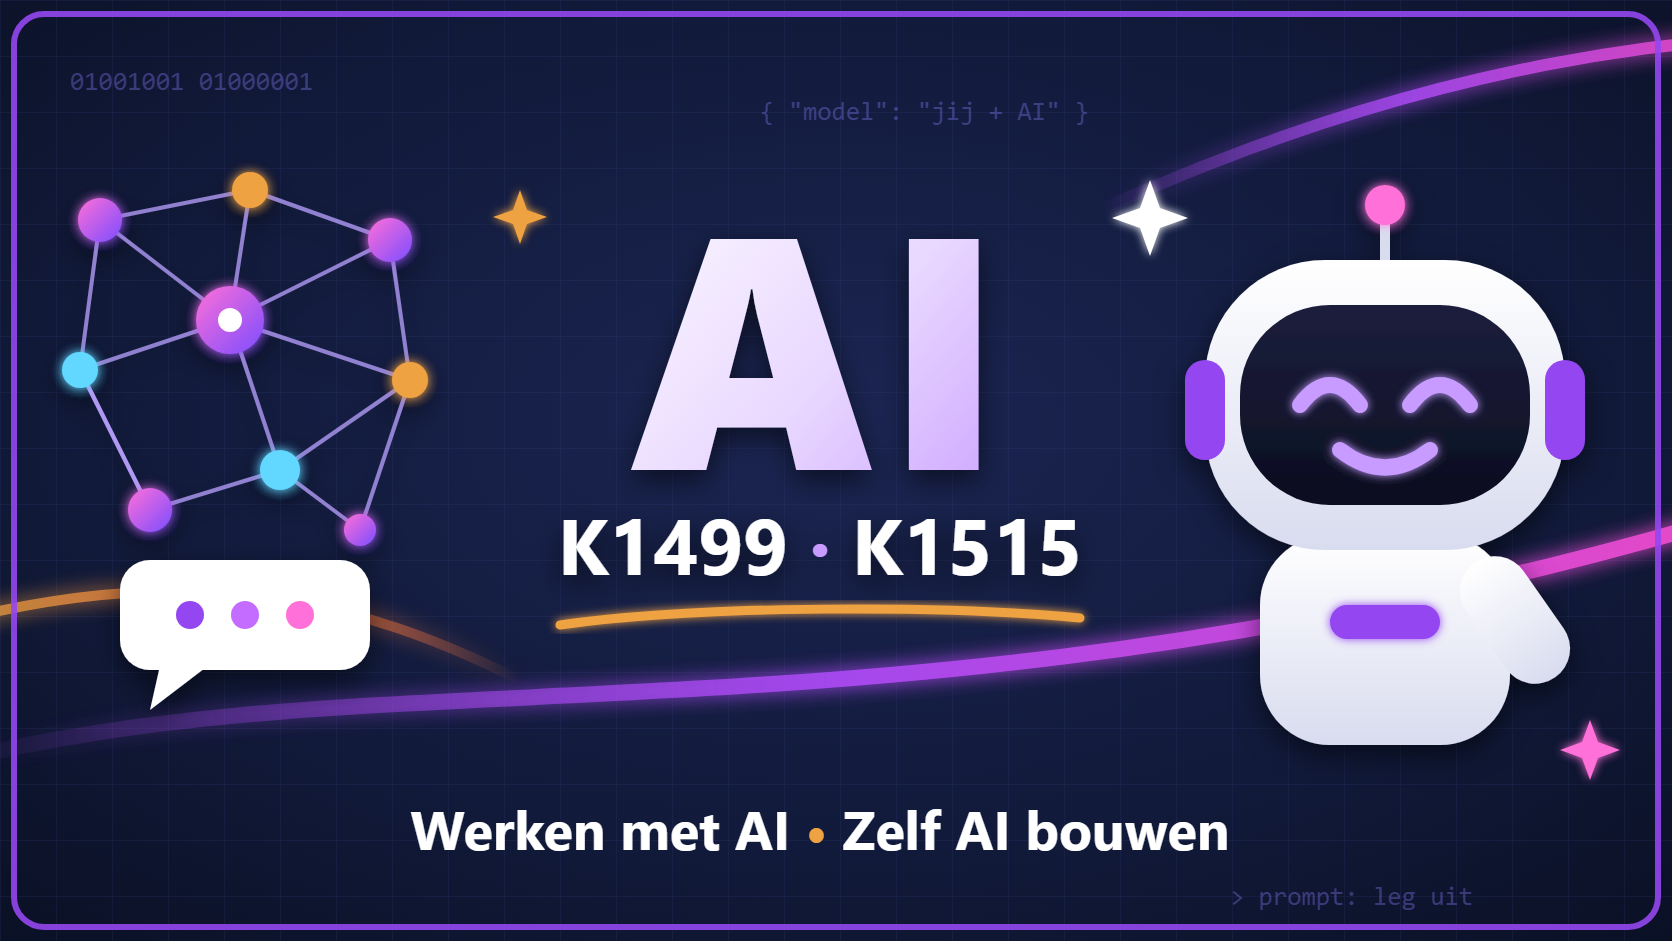
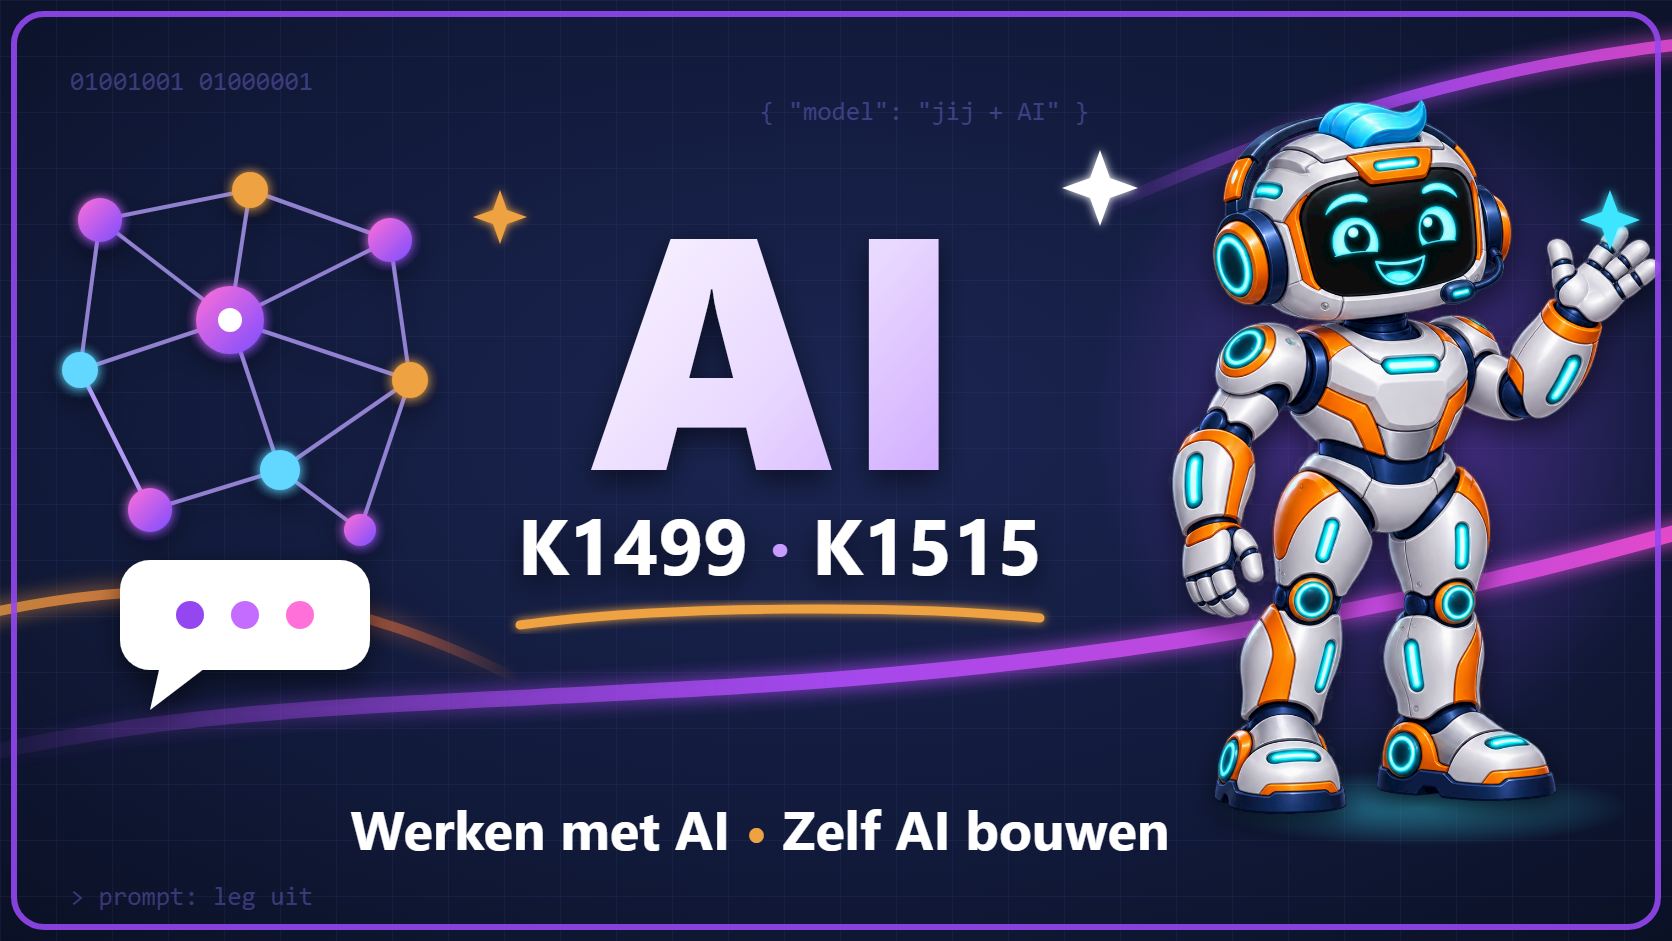
AI-kaart: robot AAdrie (servicedesk) in de afbeelding

diff --git a/index.html b/index.html
@@ -136,7 +136,7 @@
       </article>
       <article class="card ai" style="--colour: #9447f0">
         <a href="https://marcelteraa.github.io/ai-keuzedelen/" aria-label="Open K1499 en K1515 AI">
-          <span class="image-wrap"><img src="afbeeldingen/k1499-k1515-ai.png" alt="AI: keuzedelen K1499 en K1515 met een vrolijke robot"></span>
+          <span class="image-wrap"><img src="afbeeldingen/k1499-k1515-ai.png?v=aadrie" alt="AI: keuzedelen K1499 en K1515 met een vrolijke robot"></span>
           <span class="name">K1499 &amp; K1515 · AI</span>
         </a>
       </article>
